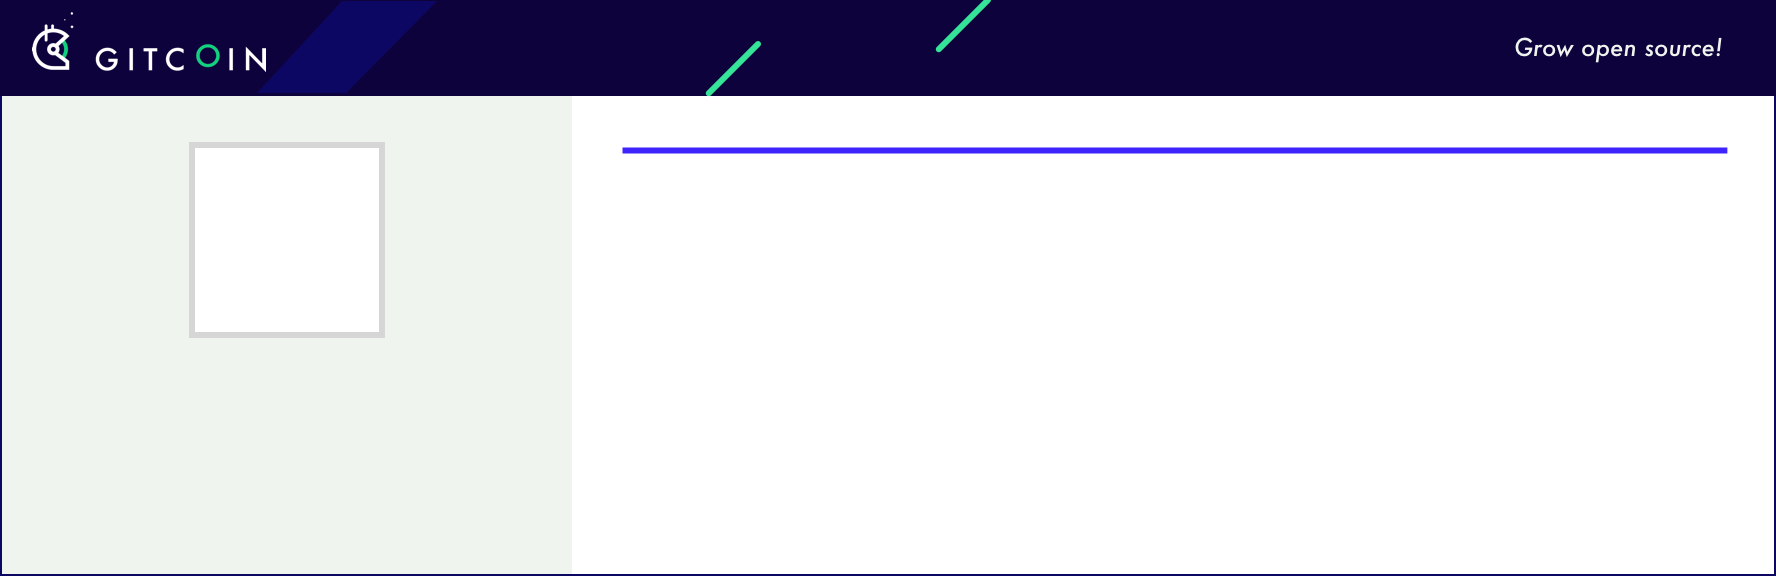
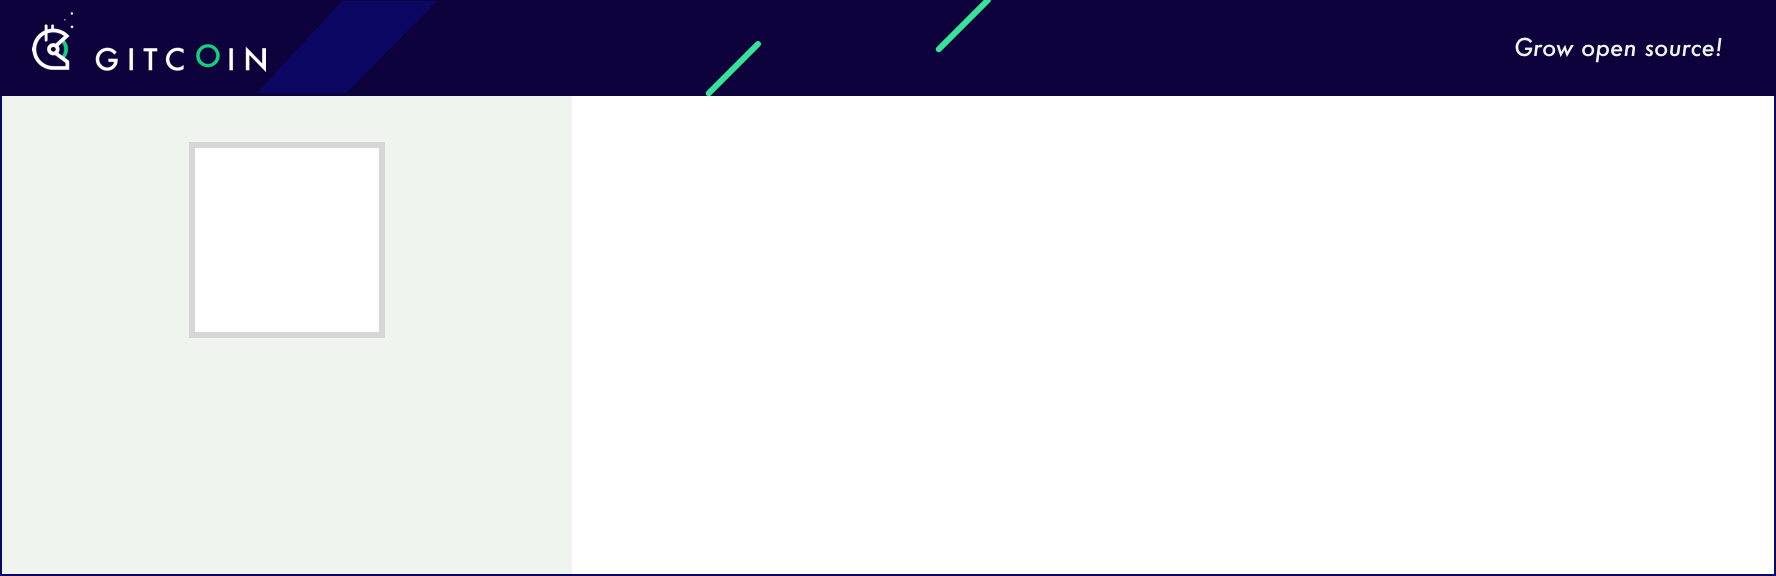
feinschliff and blank slate

Changed region(s): [[0.3407, 0.25, 0.991, 0.2812]]

diff --git a/app/dashboard/embed.py b/app/dashboard/embed.py
@@ -137,10 +137,11 @@ def embed(request):
         width = 1776
         height = 576
         spacing = 0
-        line = "".join(["_" for ele in range(0, 47)])
+        # line = "".join(["_" for ele in range(0, 47)])
 
         # setup
         img = Image.new("RGBA", (width, height), (255, 255, 255))
+        draw = ImageDraw.Draw(img)
         black = (0, 0, 0)
         gray = (102, 102, 102)
         h1 = ImageFont.truetype(font, 36, encoding="unic")
@@ -165,20 +166,17 @@ def embed(request):
 
         img_org_name.multiline_text(align="left", xy=(287 - img_org_name_size[0]/2, 360), text=_org_name, fill=black, font=h1, spacing=spacing)
 
+        draw.multiline_text(align="left", xy=(110, 410), text="supports funded issues", fill=black, font=h1, spacing=spacing)
+
         # put bounty list in there
         i = 0
         for bounty in bounties[:4]:
-            # text = f"{line}\n{wrap_text(bounty.title_or_desc, 30)}\n\nWorth: " \
-            #        f"{round(bounty.value_true, 2)} {bounty.token_name} ({round(bounty.value_in_usdt, 2)} USD " \
-            #        f"@ ${round(convert_token_to_usdt(bounty.token_name), 2)}/{bounty.token_name})"
-
             i += 1
             # execute
-            draw = ImageDraw.Draw(img)
             line_size = 2
 
-            text = f"{bounty.title_or_desc}"
             # Limit text to 28 chars
+            text = f"{bounty.title_or_desc}"
             text = (text[:28] + '...') if len(text) > 28 else text
 
             x = 620 + (int((i-1)/line_size) * (bounty_width))
@@ -192,9 +190,6 @@ def embed(request):
                 num = int(round((bounty.expires_date - timezone.now()).seconds / 3600 / 24, 0))
             unit = unit + ("s" if num != 1 else "")
             draw.multiline_text(align="left", xy=(x, y-40), text=f"Expires in {num} {unit}:", fill=gray, font=p, spacing=spacing)
-
-
-            # draw = ImageDraw.Draw(img)
 
             bounty_eth_background = Image.new("RGBA", (200, 56), (231, 240, 250))
             bounty_usd_background = Image.new("RGBA", (200, 56), (214, 251, 235))
@@ -215,23 +210,23 @@ def embed(request):
 
         # blank slate
         if bounties.count() == 0:
-
-            text = "{}\n\n{}\n\n{}".format(line, wrap_text("No active issues. Post a funded issue at https://gitcoin.co", 50), line)
-            # execute
-            # draw = ImageDraw.Draw(img)
-            x = 10
-            y = 320
-            # draw.multiline_text(align="left", xy=(x, y), text=text, fill=black, font=p, spacing=spacing)
-            # draw = ImageDraw.Draw(img)
+            draw.multiline_text(align="left", xy=(780, 300), text="No active issues. Post a funded issue at: https://gitcoin.co", fill=gray, font=h1, spacing=spacing)
 
         if bounties.count() != 0:
             text = 'Browse issues at: https://gitcoin.co/explorer'
-            draw = ImageDraw.Draw(img)
-            x = 64
-            y = height - 70
-            draw.multiline_text(align="center", xy=(x, y), text=text, fill=gray, font=p, spacing=spacing)
+            draw.multiline_text(align="left", xy=(64, height - 70), text=text, fill=gray, font=p, spacing=spacing)
 
             draw.multiline_text(align="left", xy=(624, 120), text="Recently funded issues:", fill=(62, 36, 251), font=p, spacing=spacing)
+
+            show_value, value = summarize_bounties(super_bounties)
+
+            value_size = tmp.textsize(value, p)
+
+            draw.multiline_text(align="left", xy=(1725 - value_size[0], 120), text=value, fill=gray, font=p, spacing=spacing)
+
+            line_table_header = Image.new("RGBA", (1100, 6), (62, 36, 251))
+
+            img.paste(line_table_header, (624, 155))
 
         # Resize back to output size for better anti-alias
         img = img.resize((888, 288), Image.LANCZOS)
